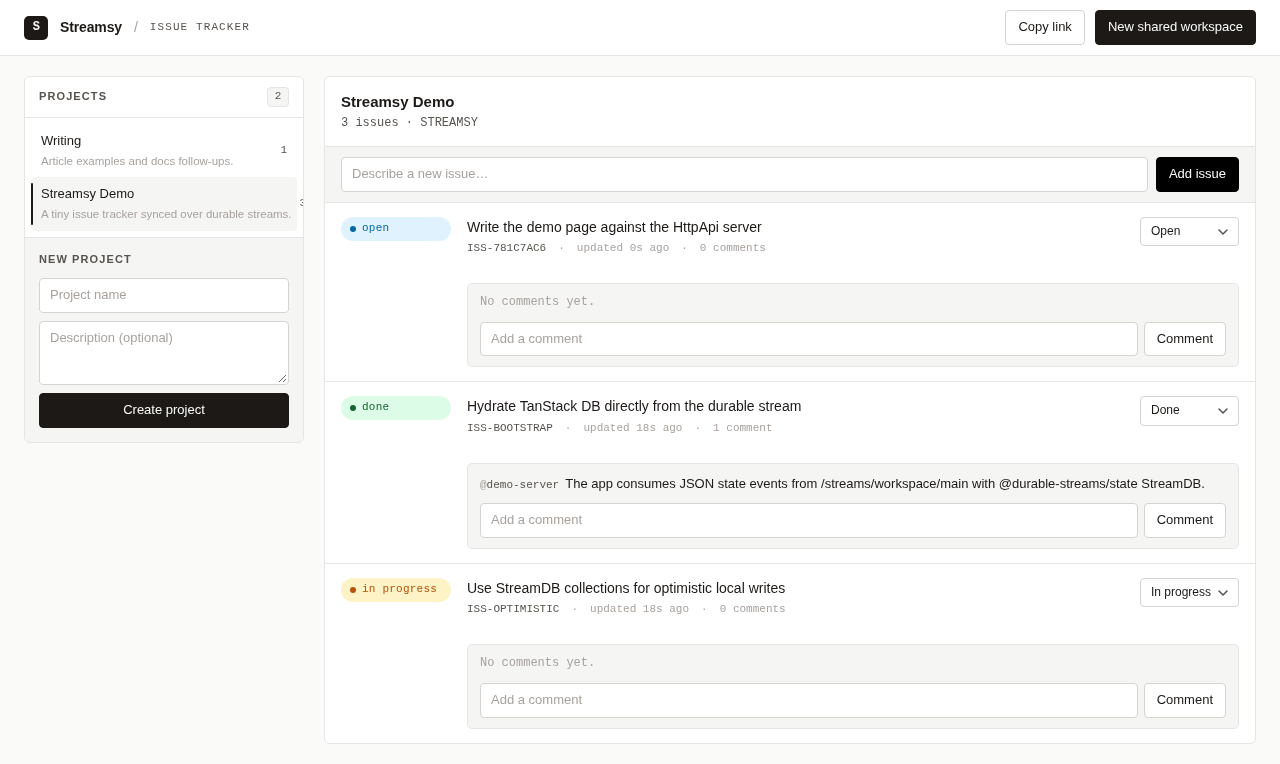
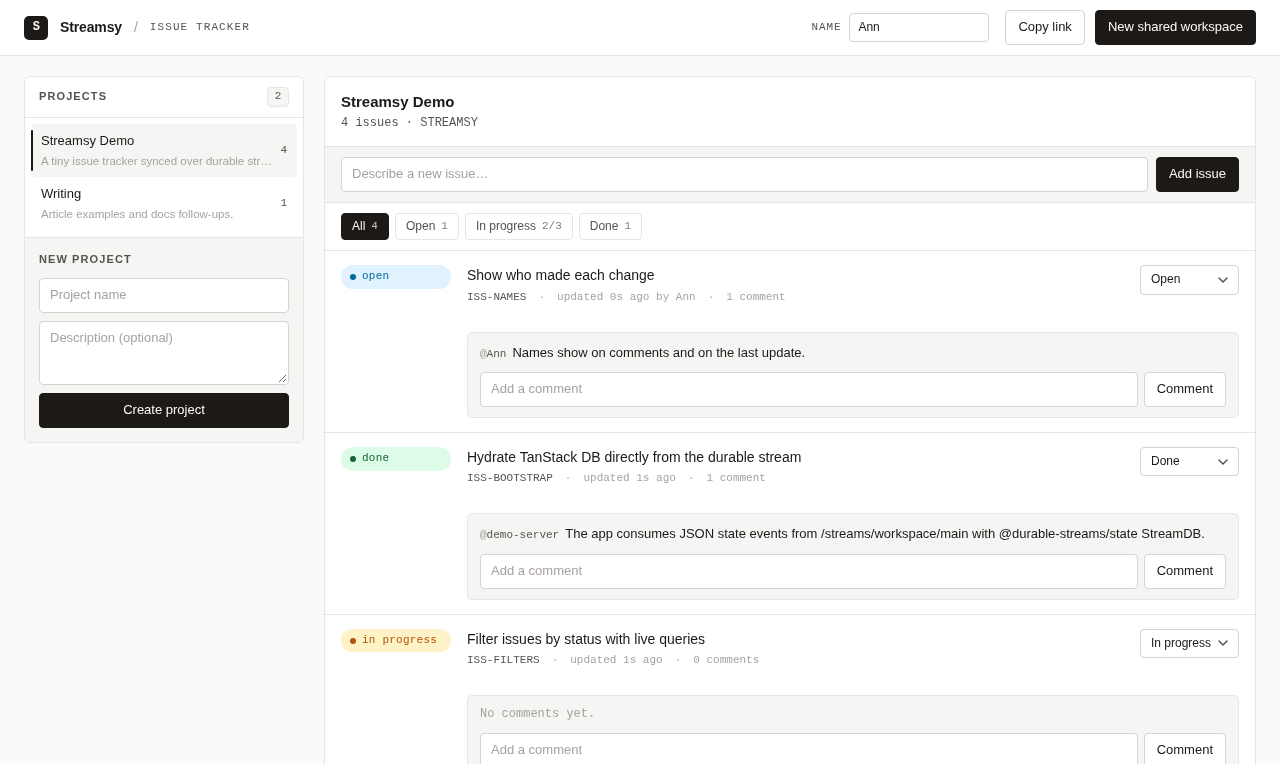
docs(issue-tracker-demo): describe the variant base spec
The README lists the product and the manual acceptance script that every
variant must pass. The demo page explains the work-in-progress race,
the 422 contract, server time and the live queries, with excerpts from
the final source and a new screenshot.

diff --git a/examples/issue-tracker-demo/README.md b/examples/issue-tracker-demo/README.md
@@ -29,6 +29,42 @@ the share control creates isolated workspaces with their own stream.
 | `ISSUE_TRACKER_DB` | unset         | SQLite file; unset keeps a process-local store        |
 | `NODE_ENV`         | `development` | `production` turns off hot reload and console echoing |
 
+## The product
+
+This app is the base for a family of variants. Each variant changes one side,
+the server or the browser, and keeps this product and its wire contract.
+
+- A seeded `main` workspace has two projects, five issues and one comment.
+  "Streamsy Demo" has two of its three in-progress places taken.
+- Create projects and issues. Rename an issue inline. Set its status. Comment.
+- Filter the issue list by status. Each filter shows its count.
+- Set a display name. It shows on your comments and as the last writer of an
+  issue. The browser keeps it in `localStorage`.
+- A project can have at most three issues in progress. The server refuses a
+  fourth with HTTP 422 and the `WipLimitReached` tag.
+- A local change shows at once, faded, and turns solid when the stream confirms
+  it. A refused change goes away, and a short message says why.
+- An "Offline" badge shows while the page cannot reach the stream.
+- The server stamps every time field. The API ignores times in a body.
+
+### Try it by hand
+
+Every variant must pass this script.
+
+1. Open `main`. See two projects, five issues and one comment.
+2. Set a display name. Add a comment. The comment shows the name.
+3. Create a project. It becomes selected. Add an issue. It shows at once,
+   faded, then solid.
+4. Rename the issue. Change its status. Filter by status. The counts change.
+5. Open the same URL in a second tab. Each change in one tab shows in the other.
+6. In "Streamsy Demo", move a different issue to "In progress" in each tab at
+   the same time. One change stays. The other rolls back with a message.
+7. Create a shared workspace. Open its link in a new tab. It shows only its
+   starter project.
+8. With `ISSUE_TRACKER_DB` set, restart the server. All data is still there.
+
+## Persistence
+
 Set `ISSUE_TRACKER_DB` when state should survive a server restart:
 
 ```bash
@@ -65,7 +101,10 @@ the resulting view, and append with `expectedOffset`. `decide` retries on an
 `OffsetMismatch` only, so parallel writers cannot silently overwrite one
 another; after three retries the API answers 409. The validation rules in `server/state.ts` return
 the change to append or a typed error, and the handlers map those errors to
-400, 404 or 409. Project, issue, and comment changes share one
+400, 404, 409 or 422. The work-in-progress rule reads every issue of the
+project, so it holds only because each attempt sees the state at the head it
+appends to: when two writers race for the last place, the loser's retry sees
+the winner's issue and fails with 422. Project, issue, and comment changes share one
 `Streamsy.state` declaration, `Workspaces`, whose collections type both reads
 and writes. `DurableState.changes` stamps each change for the append. Because
 the tracker appends its own events rather than projecting an upstream, each
@@ -74,7 +113,10 @@ change records the workspace head that `decide` read as its source offset.
 The server keeps no workspace cache. In the browser, `createStreamDB` follows
 the public workspace stream and exposes projects, issues, and comments as
 TanStack DB collections, including optimistic writes keyed by the transaction
-id returned from the API.
+id returned from the API. `src/queries.ts` derives every view from those
+collections with live queries: the filtered and sorted issue list, the counts by
+status and by project, and the comments of each issue. Each result row keeps
+TanStack DB's `$synced` flag, which marks a pending local change.
 
 ## Verify
 
@@ -85,13 +127,15 @@ bun run --cwd examples/issue-tracker-demo smoke:http
 ```
 
 The offline HTTP smoke calls the API through an `HttpApiClient` built from
-`IssueTrackerApi`. It covers projects, issues, comments, workspace isolation,
+`IssueTrackerApi`. It covers the seed, projects, issues, comments, workspace isolation,
+two concurrent requests that race for the last in-progress place (one 200, one 422),
 ten concurrent writers landing with the exact event count and no duplicates,
 raw probes for bodies the typed client cannot send, raw stream writes (405), a
 shutdown that drains a parked read with 204, and a SQLite process restart. The in-process
 recipe tests use a read barrier to force a CAS conflict and prove that the
-losing writer retries against the new state, and a writer that loses every race
-to prove the 409 after three retries.
+losing writer retries against the new state, the same race against the
+work-in-progress rule, and a writer that loses every race to prove the 409 after
+three retries.
 
 ## Limits
 
